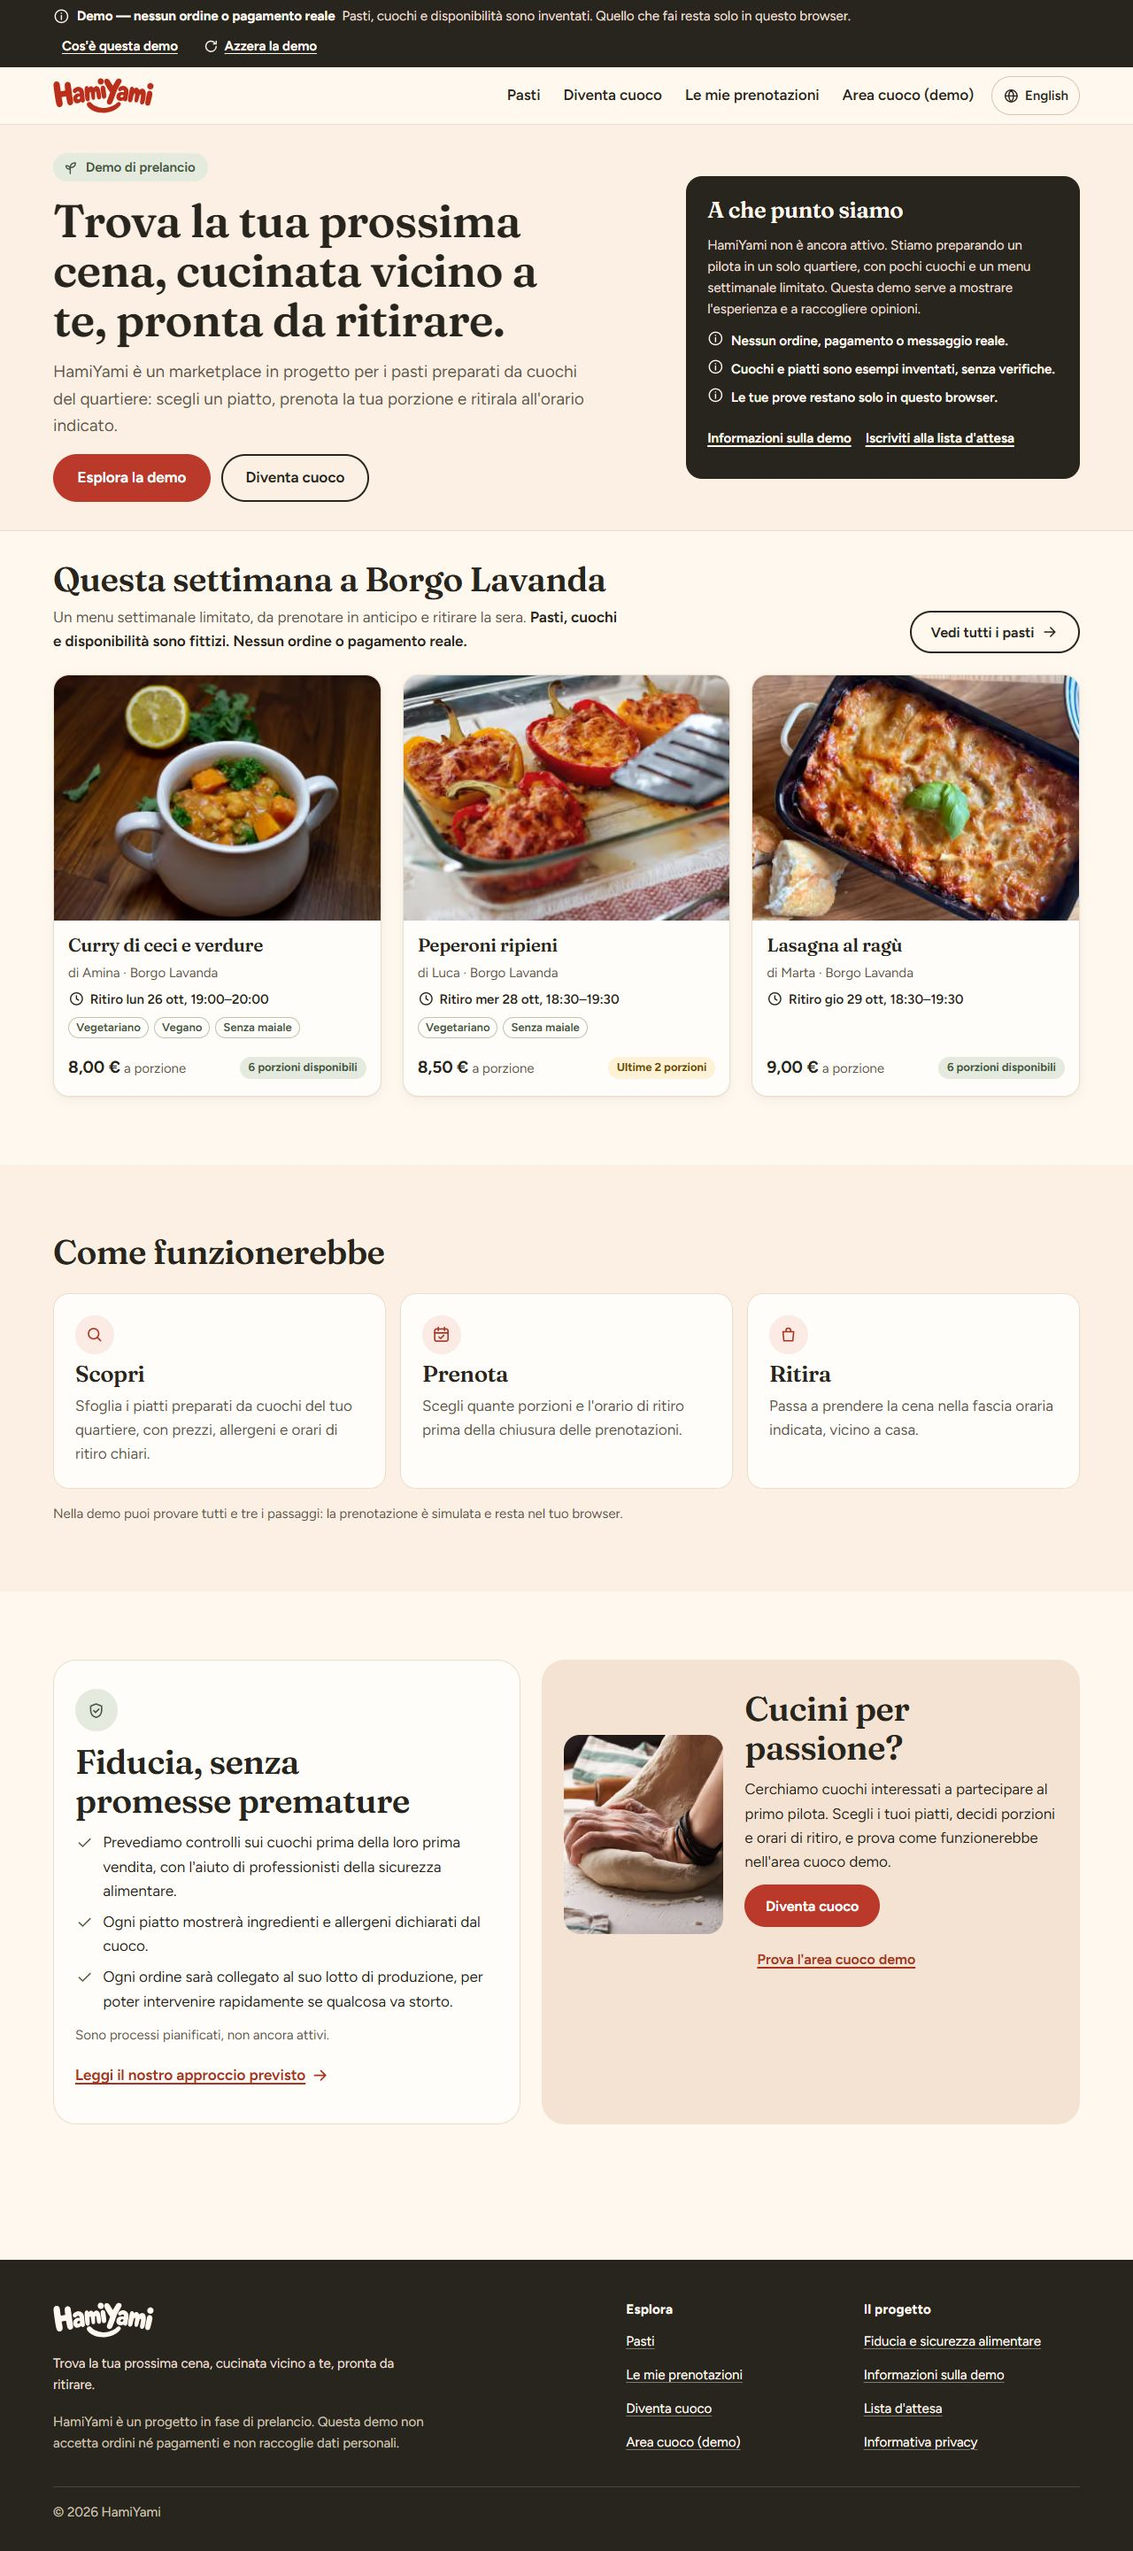
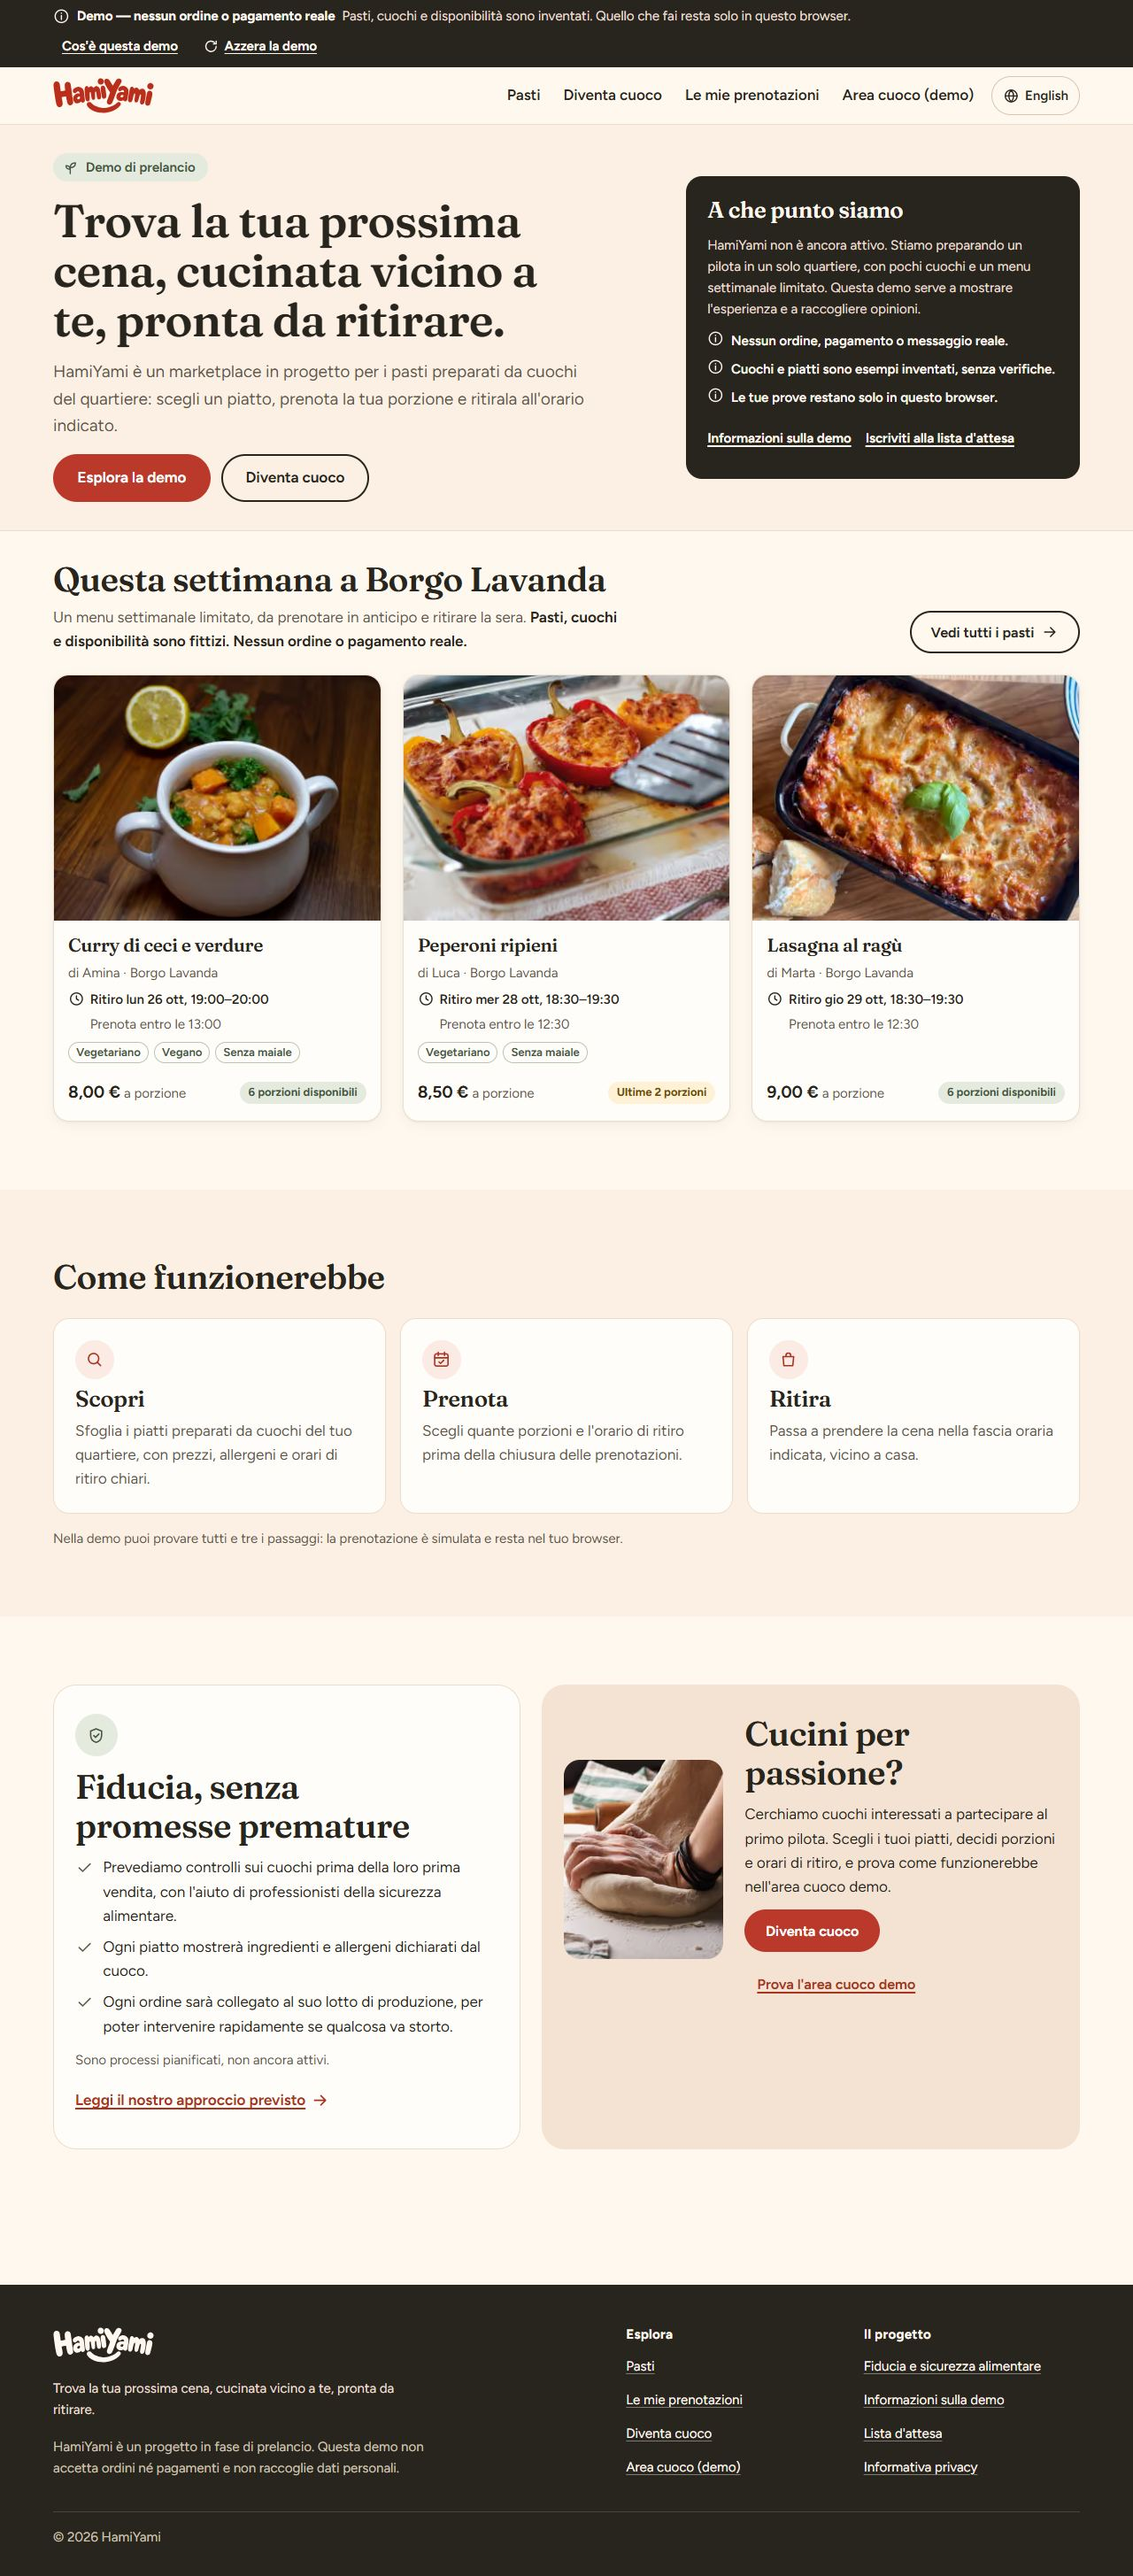
Document day grouping, pickup codes, calendar export and the prep view
Updates the README journeys, demo-state notes, structure, database plan
(server-generated unique pickup codes), verification results (104 unit
and 41 browser tests) and limitations, and refreshes the screenshots.

diff --git a/README.md b/README.md
@@ -31,12 +31,12 @@ HamiYami is a planned marketplace for meals prepared by neighborhood cooks in It
 | Journey | Where | What it demonstrates |
 |---|---|---|
 | Homepage | `/it` | The dinner use case, prelaunch status, this week's meals, how it would work, a short trust summary, the cook journey |
-| Meal discovery | `/it/meals` | Weekly menu for the pilot neighborhood; day, neighborhood, dietary-preference and price filters (kept in the URL); empty states; fictional availability |
+| Meal discovery | `/it/meals` | Weekly menu for the pilot neighborhood, grouped by pickup day; each card says when reservations close (Rome time); day, neighborhood, dietary-preference and price filters (kept in the URL); empty states; fictional availability |
 | Meal details | `/it/meals/{offering}` | Photo or neutral placeholder, portion, ingredients, declared allergens and possible cross-contact (kept apart from dietary preferences), cook, pickup window and area, quantity, sold-out and closed states |
 | Simulated reservation | `/it/meals/{offering}/reserve` | Portions → pickup time → review → demo confirmation. No payment, no account, no personal details. Double-submit and Back-button safe |
-| My reservations | `/it/reservations` | View and cancel simulated reservations until the cut-off |
+| My reservations | `/it/reservations` | View and cancel simulated reservations until the cut-off; each upcoming one has a pickup code and an "Add to calendar" (.ics) link built in the browser |
 | Cook profile | `/it/cooks/{cook}` | Clearly fictional profile, cooking style, sample menu, upcoming demo dates, and *no* verification claims, ratings or testimonials |
-| Cook workspace | `/it/cook-workspace` | A labelled **simulation** of a fictional cook's tools: create and edit dishes and dates, publish/unpublish, see and confirm/decline sample reservations |
+| Cook workspace | `/it/cook-workspace` | A labelled **simulation** of a fictional cook's tools. It opens on a day-by-day **prep view** (portions to cook, requests to confirm, still free, and the pickup list with codes, where reservations are confirmed or declined), then dates (publish/unpublish, edit) and dishes (create, edit) |
 | Become a cook / Waitlist | `/it/become-a-cook`, `/it/waitlist` | Interest form with shared validation; while collection is off it says plainly that nothing was sent |
 | Trust | `/it/trust` | The *planned* food-safety approach, future-facing only |
 | About the demo, Privacy | `/it/demo`, `/it/privacy` | What is and isn't real; the privacy notice placeholder |
@@ -86,6 +86,8 @@ or download Playwright's own once with `npx playwright install chromium`. Set `E
 - **Safe parsing and versioning.** Stored data is validated with Zod on every load (`demo-state.ts`). Unreadable or tampered data, or data from another schema version, is discarded and the visitor sees a notice. Size limits cap stored lists. If storage is blocked, the demo keeps working in memory and says so.
 - **Reset.** "Azzera la demo / Reset the demo" in the top banner (and on `/demo`) asks for confirmation and clears everything stored.
 - **Checkout attempts** keep a random idempotency key in `sessionStorage` (no personal data), so double clicks, reloads or going Back and confirming the same choice never create a second reservation.
+- **Pickup codes** are derived from the reservation id (`domain/pickup-code.ts`), so they need no stored field: consonants and digits only, never a word. The customer's page and the cook's pickup list show the same code.
+- **Calendar files** are built in the browser as a `data:` link (`features/reservations/calendar.ts`): RFC 5545, UTC times, a one-hour reminder. Downloading one sends nothing anywhere.
 - **No personal data** is requested or stored by the demo. Discovery filters in the URL are non-personal.
 
 ## Application structure
@@ -97,7 +99,7 @@ src/
   app/[locale]/           routes (server components); layout adds providers, banner, header, footer
   app/api/waitlist/       POST /api/waitlist (real collection only when fully configured)
   proxy.ts                locale redirect + per-request nonce Content-Security-Policy
-  domain/                 types, Zod schemas and rules: money, Rome time, catalog, offering, reservation
+  domain/                 types, Zod schemas and rules: money, Rome time, catalog, offering, reservation, pickup code
   data/
     contracts.ts          data-access interfaces used by everything above
     fixtures/             fictional catalog and weekly menu (imported only inside src/data)
@@ -106,8 +108,8 @@ src/
   features/
     meals/                discovery and detail queries + components (cards, filters, detail)
     cooks/                cook profile query + components
-    reservations/         reservation flow, list, detail, idempotency attempt keys
-    cook-workspace/       form schemas, editors, workspace view
+    reservations/         reservation flow, list, detail, pickup pass, calendar export, idempotency attempt keys
+    cook-workspace/       form schemas, prep plan, editors, workspace view
     waitlist/             shared schema, approved consent registry, form
   server/                 server-only: env validation, CSP builder, waitlist handler/store/rate limit
   i18n/                   locales, dictionaries (it = shape, en typed against it), formatting helpers
@@ -188,7 +190,7 @@ The contracts in `src/data/contracts.ts` are the seam: screens and application f
    - cook status changes (confirm, decline, collected) only for their own offerings, following the transition rules in `domain/reservation.ts`;
    - administrative actions (onboarding checks, suspending sales, recalls) restricted to an admin role and audited;
    - with Supabase, enforce this with Row Level Security policies as well as in the server code.
-5. **Atomic inventory and idempotency.** Creating a reservation must check capacity and insert in one transaction, e.g. a conditional update (`update offerings set reserved = reserved + :q where id = :id and reserved + :q <= capacity and status = 'published' and now() < cutoff`) or row locking, plus a unique idempotency key that returns the existing reservation on retry. The browser-side checks in the demo are not sufficient under concurrency.
+5. **Atomic inventory and idempotency.** Creating a reservation must check capacity and insert in one transaction, e.g. a conditional update (`update offerings set reserved = reserved + :q where id = :id and reserved + :q <= capacity and status = 'published' and now() < cutoff`) or row locking, plus a unique idempotency key that returns the existing reservation on retry. The browser-side checks in the demo are not sufficient under concurrency. Generate the **pickup code** on the server at the same time, unique among the reservations for that offering (the demo derives it from the id).
 6. **Remove the demo overlay** (`src/data/demo/`, `DemoProvider`, `useDemoQuery`) once real data flows from the server, or keep it behind a "demo mode" flag. Client components then refresh with server data (e.g. `router.refresh()` after a Server Action) instead of browser storage.
 7. **Payments** (if and when chosen): a provider's hosted checkout, webhooks verified on the server, and reservations confirmed only after payment confirmation.
 8. **Images:** a storage bucket with upload validation (type, size, dimensions), moderation, and rights confirmation from cooks.
@@ -255,13 +257,13 @@ The photos are generic stock, hands-only, not presented as HamiYami cooks or cus
 
 ## Verification
 
-Run on 23 October 2026, Windows 11, Node 24.20, Chrome stable:
+Last run on 23 October 2026, Windows 11, Node 24.20, Chrome stable:
 
 - `npm run typecheck`: pass (strict TypeScript, route types generated).
 - `npm run lint`: pass, no warnings.
-- `npm test`: 89 unit tests pass (domain time/DST, money, capacity, reservation transitions, demo storage parsing and versioning, demo repositories including idempotency, isolation and reset, cook forms, waitlist schema/handler/config/store, translations, CSP, URL filters).
+- `npm test`: 104 unit tests pass (domain time/DST, money, capacity, reservation transitions, demo storage parsing and versioning, demo repositories including idempotency, isolation and reset, day grouping and cut-off display, pickup codes, calendar files (UTC times across the clock change, escaping, 75-octet folding), the cook prep plan, cook forms, waitlist schema/handler/config/store, translations, CSP, URL filters).
 - `npm run build`: pass. With `WAITLIST_COLLECTION_ENABLED=true` and nothing else set, the build fails with the expected list of missing settings.
-- `npm run test:e2e` (`PLAYWRIGHT_CHANNEL=chrome`): 38 browser tests pass on desktop and mobile emulation. They cover browsing and filters, meal details, sold-out and quantity rules, reservation completion, cancellation, duplicate submission and Back/Forward, the cook workspace, per-visitor isolation, reset, corrupted and outdated storage, language switching, keyboard-only reservation, skip link and focus, disabled waitlist (asserts no request is made), the API refusing to store, security headers, no CSP violations, no third-party requests, and no horizontal overflow at 320/375/768px.
+- `npm run test:e2e` (`PLAYWRIGHT_CHANNEL=chrome`): 41 browser tests pass on desktop and mobile emulation. They cover browsing, day grouping and filters, meal details, sold-out and quantity rules, reservation completion, cancellation, duplicate submission and Back/Forward, the pickup code and a real .ics download (with no request made), the cook workspace and prep view (including a customer's reservation reaching the same visitor's pickup list with the same code, and the cook's decision showing on the customer's page), per-visitor isolation, reset, corrupted and outdated storage, language switching, keyboard-only reservation, skip link and focus, disabled waitlist (asserts no request is made), the API refusing to store, security headers, no CSP violations, no third-party requests, and no horizontal overflow at 320/375/768px.
 - Manual review of the rendered pages at desktop, tablet and phone widths. Screenshots are in `docs/screenshots/`.
 
 Not verified: screen-reader output with real assistive technology (only the accessibility tree was inspected); Safari and Firefox; a real Supabase project or deployed hosting (no external services were contacted); the hosted Vercel environment's own header handling.
@@ -271,6 +273,7 @@ Not verified: screen-reader output with real assistive technology (only the acce
 - **Every page renders dynamically**, because a nonce-based CSP needs a fresh nonce per request. This costs server time and prevents CDN caching. Next.js's experimental SRI (hash-based CSP) could allow static pages later.
 - Demo data is per browser: it doesn't follow a visitor across devices, and two tabs editing at the same instant can race (last write wins). Real inventory is not shared, by design.
 - The cook workspace always simulates the one fictional cook "Marta". Text a cook types is shown as written in both languages.
+- Pickup codes are derived from reservation ids, so two reservations could in theory share one (about 1 in 600,000 per pair); a real service must generate unique codes on the server.
 - Native date and time inputs follow the browser's own language and format.
 - No photo upload; cook-created dishes always show the placeholder.
 - Real waitlist collection has been tested only against a mocked Supabase API.
